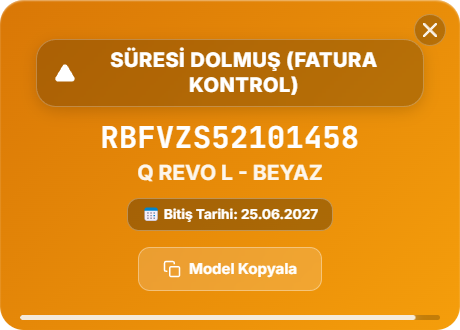
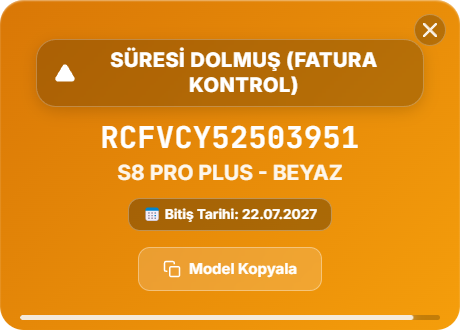
docs(readme): update popup screenshots with exact user serials RCFVCY52503951 (in warranty) and R28EBR33716309 (out of warranty)

diff --git a/README.md b/README.md
@@ -48,9 +48,9 @@ AvoCheck, servis ihtiyaçlarına göre iki ayrı mimaride sunulmaktadır:
 | ![Ana Panel](assets/screenshots/home.png) | ![Açılış Ekranı](assets/screenshots/splash.png) |
 
 ### 🔔 Akıllı Durum Bildirimleri (Popups)
-| 🟢 Recci Garantili | 🟡 Süresi Dolmuş (Fatura Kontrol) |
+| 🟢 Recci Garantili (`RCFVCY52503951`) | ⚪ Garanti Dışı (`R28EBR33716309`) |
 | :---: | :---: |
-| ![Recci Garantili](assets/screenshots/inwarrantypopup.png) | ![Fatura Kontrol](assets/screenshots/outofwarrantypopup.png) |
+| ![Recci Garantili](assets/screenshots/inwarrantypopup.png) | ![Garanti Dışı](assets/screenshots/outofwarrantypopup.png) |
 
 ---
 
